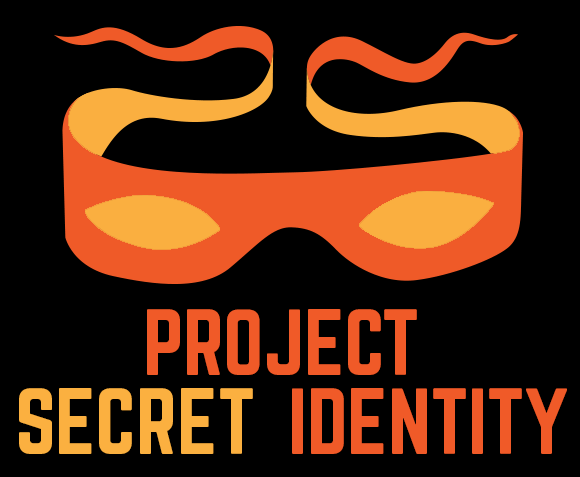
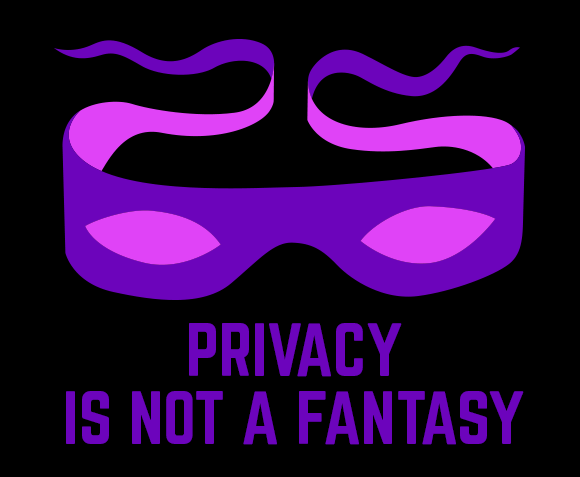
applies 2015 style

diff --git a/css/secret.css b/css/secret.css
@@ -46,7 +46,7 @@ header .masks img {
 }
 
 header .title {
-    background-color: #f05a28;
+    background-color: #6c04bb;
 }
 
 header .title img {
@@ -57,7 +57,7 @@ header .title img {
 
 nav {
     background-color: #000;
-    color: #f05a28;
+    color: #6c04bb;
     font-family: Verdana, sans-serif;
     font-size: 14px;
     padding: 0 24px 87px;
@@ -76,7 +76,7 @@ nav .centered {
 }
 
 nav a {
-    color: #f05a28;
+    color: #6c04bb;
     display: inline-block;
     padding: 0 8px;
     text-decoration: none;
@@ -88,7 +88,7 @@ nav a {
 }
 
 nav a:hover {
-    color: #fbb040;
+    color: #e043f7;
 
     -webkit-transition: color 0s;
        -moz-transition: color 0s;
@@ -120,7 +120,7 @@ div.hero img {
 }
 
 div.hero a {
-    color: #fbb040;
+    color: #e043f7;
     text-decoration: none;
 
     -webkit-transition: color 0.3s;
@@ -128,7 +128,7 @@ div.hero a {
 }
 
 div.hero a:hover {
-    color: #f05a28;
+    color: #6c04bb;
 
     -webkit-transition: color 0s;
             transition: color 0s;
@@ -228,18 +228,18 @@ section.privacy ol li {
 }
 
 section.privacy h1 {
-    color: #fbb040;
+    color: #e043f7;
     font-size: 42px;
     margin: 0 0 32px;
 }
 
 section.privacy h2 {
-    color: #fbb040;
+    color: #e043f7;
     font-size: 22px;
 }
 
 section.privacy a {
-    color: #fbb040;
+    color: #e043f7;
     text-decoration: none;
 
     -webkit-transition: color 0.3s;
@@ -247,7 +247,7 @@ section.privacy a {
 }
 
 section.privacy a:hover {
-    color: #f05a28;
+    color: #6c04bb;
 
     -webkit-transition: color 0s;
             transition: color 0s;
@@ -285,7 +285,7 @@ section.featured .isotope-wrapper {
 
 section.all noscript,
 section.featured noscript {
-    color: #f05a28;
+    color: #6c04bb;
     display: block;
     margin: 0 auto;
     padding-bottom: 32px;
@@ -299,7 +299,7 @@ section.all noscript {
 
 section.all noscript a,
 section.featured noscript a {
-    color: #fbb040;
+    color: #e043f7;
 }
 
 .isotope {
@@ -341,7 +341,7 @@ section.featured noscript a {
 }
 
 .isotope .photo .text-caption {
-    background-color: #fbb040;
+    background-color: #e043f7;
     font-size: 16px;
     margin: 0;
     padding: 16px;
@@ -409,7 +409,7 @@ section.all .isotope .photo img {
 }
 
 section.all .isotope .photo .text-caption {
-    background-color: #fbb040;
+    background-color: #e043f7;
     font-size: 18px;
     margin: 0;
     padding: 18px;
@@ -452,7 +452,7 @@ section.copy .header-image {
 }
 
 section.copy h1 {
-    color: #fbb040;
+    color: #e043f7;
     font-size: 42px;
     margin: 0 0 32px;
 }
@@ -465,7 +465,7 @@ section.copy .wrapper {
 }
 
 section.copy a {
-    color: #fbb040;
+    color: #e043f7;
     text-decoration: none;
 
     -webkit-transition: color 0.3s;
@@ -473,7 +473,7 @@ section.copy a {
 }
 
 section.copy a:hover {
-    color: #f05a28;
+    color: #6c04bb;
 
     -webkit-transition: color 0s;
             transition: color 0s;

diff --git a/index.html b/index.html
@@ -108,6 +108,9 @@
 
         <div class="slider loading"></div>
 
+        <a id="join" href="./join.html"><img alt="Add your photo" src="images/add.png"></a>
+        <a href="./all.html"><img alt="View all photos" src="images/view.png"></a>
+
         <h3>
             We all have a right to a secret identity.
         </h3>
@@ -143,9 +146,6 @@
 
             Can't make it to Dragon Con? Join anyway by uploading your own photo using the button below.  Just put on a costume and make yourself a sign that says "I have a right to a secret identity" or another Internet freedom slogan (<a href="./about.html#suggestions">here are a few other ideas</a>).
         </p>
-
-        <a id="join" href="./join.html"><img alt="Add your photo" src="images/add.png"></a>
-        <a href="./all.html"><img alt="View all photos" src="images/view.png"></a>
 
         <br>
         <br>
@@ -189,7 +189,7 @@
 
 <footer>
     <div class="logocloud">
-        <img alt="Cloud of partner logos" src="images/logocloud-inverted.jpg">
+        <img alt="Cloud of partner logos" src="images/logocloud.png">
     </div>
 
     <a class="copyright" href="https://www.eff.org/copyright" target="_blank">

diff --git a/css/vex-theme-psi.css b/css/vex-theme-psi.css
@@ -264,7 +264,7 @@
   font-family: "Helvetica Neue", sans-serif;
   font-weight: 200;
   background: white;
-  color: #f05a28;
+  color: #6c04bb;
   padding: 2em 2em 3em 2em;
   line-height: 1.5em;
   position: relative;
@@ -273,11 +273,11 @@
   width: 600px;
 }
 .vex.vex-theme-flat-attack .vex-content a {
-  color: #fbb040;
+  color: #e043f7;
   text-decoration: none;
 }
 .vex.vex-theme-flat-attack .vex-content a:hover {
-  /*color: #f05a28;*/
+  /*color: #6c04bb;*/
   text-decoration: underline;
 }
 /* line 57, ../sass/vex-theme-flat-attack.sass */
@@ -383,7 +383,7 @@
 }
 /* line 133, ../sass/vex-theme-flat-attack.sass */
 .vex.vex-theme-flat-attack .vex-dialog-button.vex-dialog-button-primary {
-  background: #f05a28;
+  background: #6c04bb;
   color: white;
 }
 /* line 137, ../sass/vex-theme-flat-attack.sass */

diff --git a/about.html b/about.html
@@ -165,7 +165,7 @@
 
 <footer>
     <div class="logocloud">
-        <img alt="Cloud of partner logos" src="images/logocloud-inverted.jpg">
+        <img alt="Cloud of partner logos" src="images/logocloud.png">
     </div>
 
     <a class="copyright" href="https://www.eff.org/copyright" target="_blank">

diff --git a/all.html b/all.html
@@ -125,7 +125,7 @@
 
 <footer>
     <div class="logocloud">
-        <img alt="Cloud of partner logos" src="images/logocloud-inverted.jpg">
+        <img alt="Cloud of partner logos" src="images/logocloud.png">
     </div>
 
     <a class="copyright" href="https://www.eff.org/copyright" target="_blank">

diff --git a/privacy.html b/privacy.html
@@ -111,7 +111,7 @@
 
 <footer>
     <div class="logocloud">
-        <img alt="Cloud of partner logos" src="images/logocloud-inverted.jpg">
+        <img alt="Cloud of partner logos" src="images/logocloud.png">
     </div>
 
     <a class="copyright" href="https://www.eff.org/copyright" target="_blank">

diff --git a/css/vex-theme-default.css b/css/vex-theme-default.css
@@ -539,11 +539,11 @@
 }
 
 .vex-dialog-message a {
-  color: #f05a28;
+  color: #6c04bb;
 }
 
 .vex.vex-theme-default .vex-dialog-button.vex-dialog-button-primary {
-  background: #f05a28;
+  background: #6c04bb;
   color: white;
 }
 
